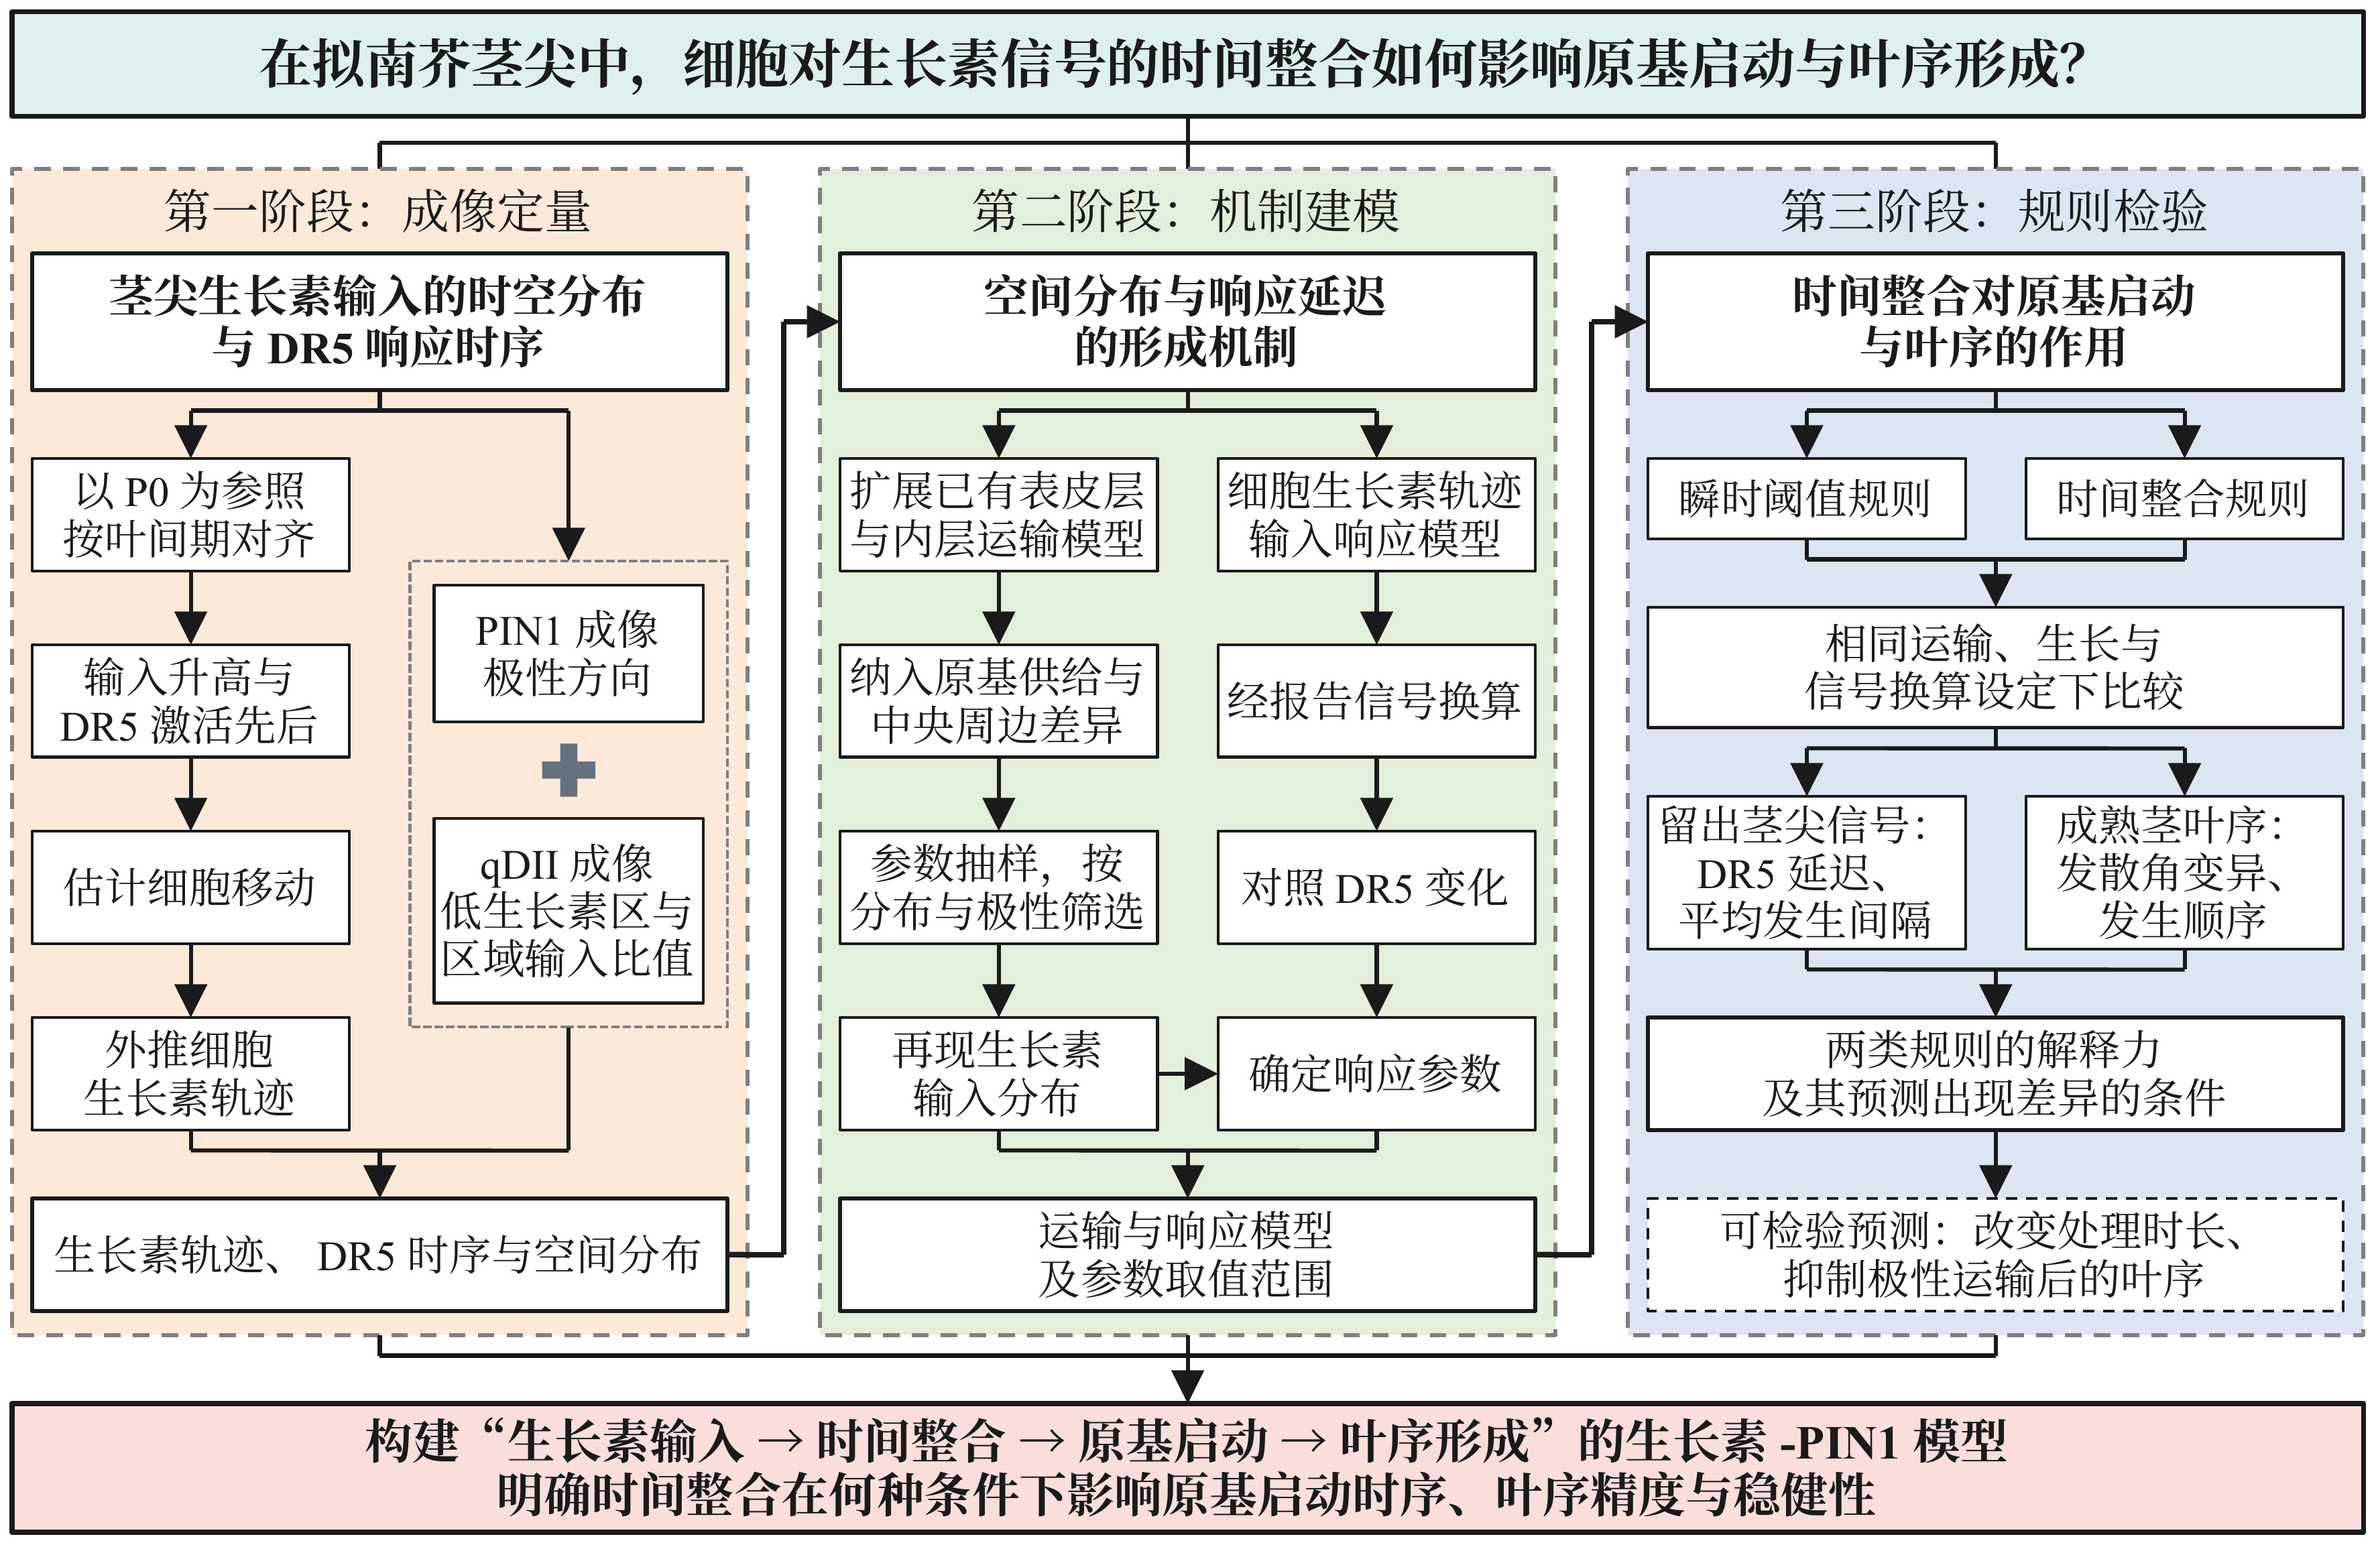
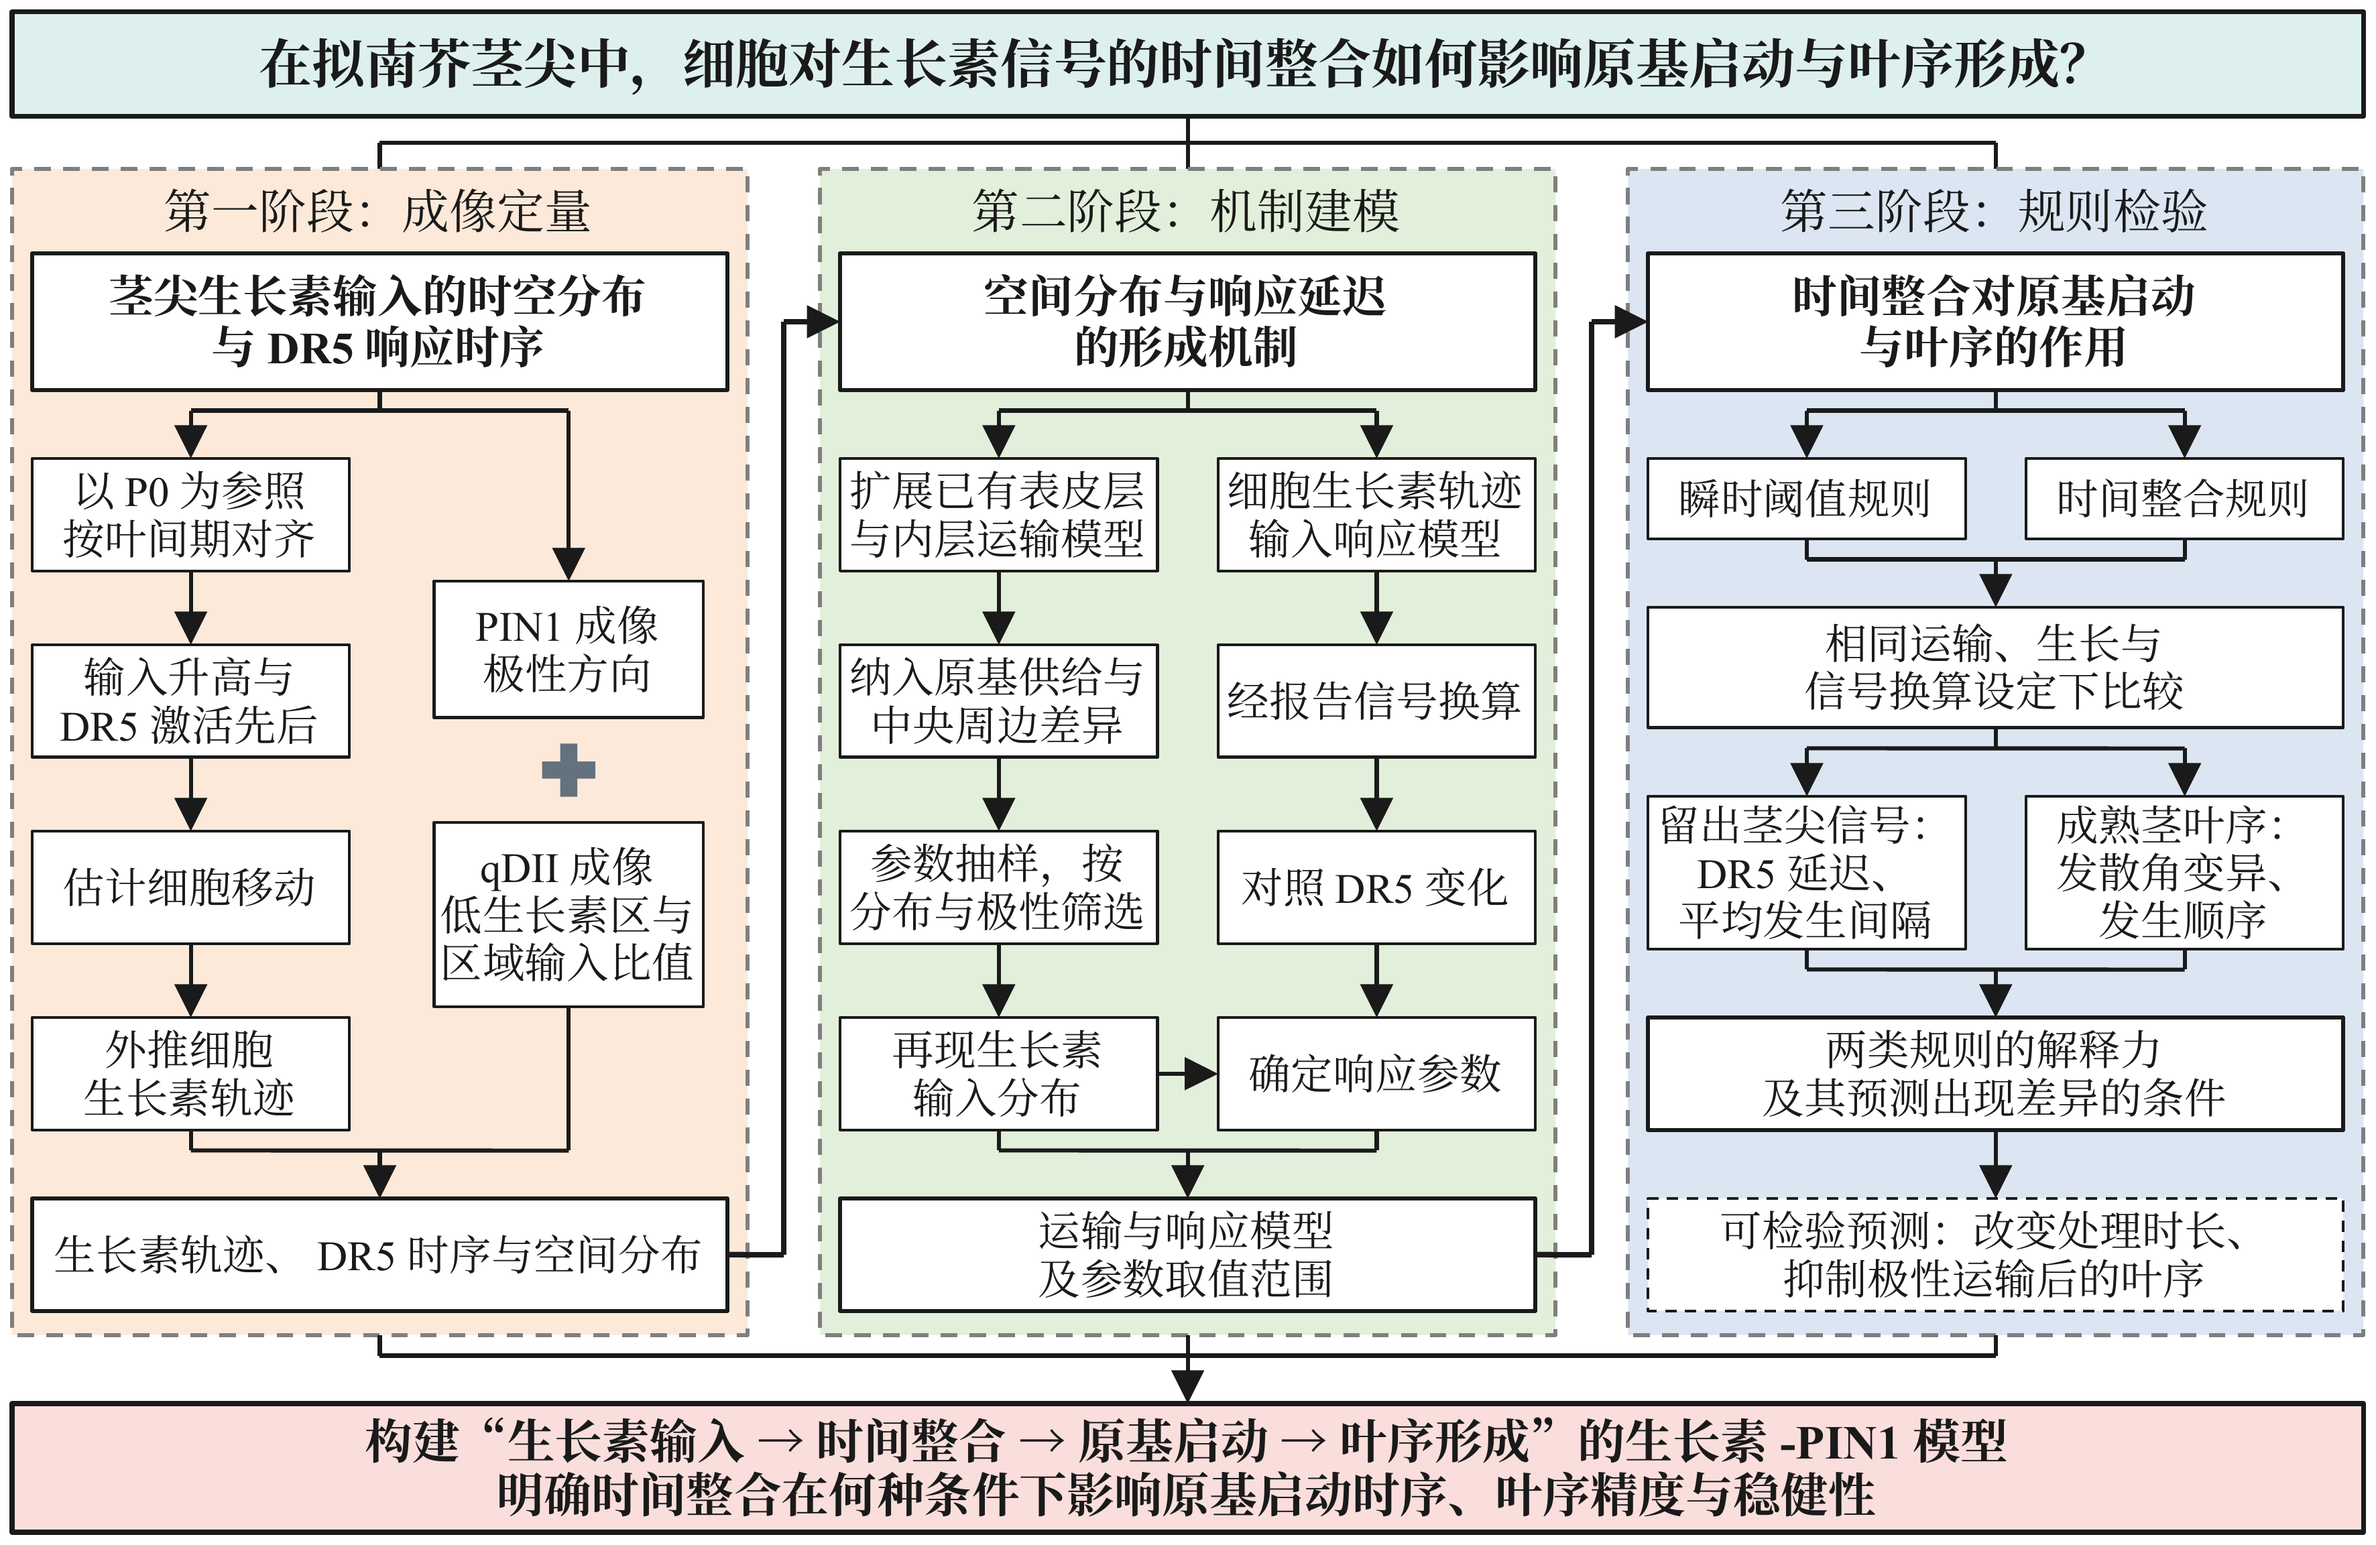
Fig. 2-1: drop the dashed group around the imaging boxes
The plus alone marks PIN1 and qDII imaging as parallel; the only small
dashed box left is the testable-predictions box.

Claude-Session: https://claude.ai/code/session_01BHCDdTyVHVBXyaT1pkArZu

Changed region(s): [[0.1862, 0.531, 0.3104, 0.656], [0.1862, 0.3436, 0.3104, 0.4685]]

diff --git a/figures/prior_work/ppt/roadmap.js b/figures/prior_work/ppt/roadmap.js
@@ -72,18 +72,17 @@ function frame(k, label, problem) {
 const ty = IN + HH + TG;                            // first row of track boxes (stages 1, 2)
 const AG = (OY - TG - ty - 4 * BH) / 3;             // arrow gap in a four-step track
 
-// stage 1: time course (left), two parallel imaging measurements grouped without arrows (right)
+// stage 1: time course (left), two parallel imaging measurements joined by a plus (right)
 {
   const f = frame(0, "第一阶段：成像定量", "茎尖生长素输入的时空分布\n与DR5响应时序");
   const b = chain(f.tx[0], ty, f.tw, ["以P0为参照\n按叶间期对齐", "输入升高与\nDR5激活先后", "估计细胞移动", "外推细胞\n生长素轨迹"], BH, AG);
-  const gx = f.tx[1], P1 = 0.34, P2 = 0.46, PG = 0.24, GP = 0.06, gh = GP + P1 + PG + P2 + GP;
-  const gy = ty + (b - ty - gh) / 2;                // two parallel measurements, grouped, joined by a plus
+  const gx = f.tx[1] + 0.06, gw = f.tw - 0.12, P1 = 0.34, P2 = 0.46, PG = 0.26, gh = P1 + PG + P2;
+  const gy = ty + (b - ty - gh) / 2;                // two parallel measurements joined by a plus, centred in the column
   split(f.cx, IN + HH, f.mids, [ty, gy], true);
-  box(gx, gy, f.tw, gh, "", { fill: null, lc: FRAME, dash: "sysDash", name: "imaging_group" });
-  box(gx + GP, gy + GP, f.tw - 2 * GP, P1, "PIN1成像\n极性方向");
-  s.addShape(pres.ShapeType.mathPlus, { x: gx + f.tw / 2 - 0.09, y: gy + GP + P1 + PG / 2 - 0.09, w: 0.18, h: 0.18,
+  box(gx, gy, gw, P1, "PIN1成像\n极性方向");
+  s.addShape(pres.ShapeType.mathPlus, { x: gx + gw / 2 - 0.09, y: gy + P1 + PG / 2 - 0.09, w: 0.18, h: 0.18,
     fill: { color: PLUS }, line: { type: "none" }, objectName: "parallel_plus" });
-  box(gx + GP, gy + GP + P1 + PG, f.tw - 2 * GP, P2, "qDII成像\n低生长素区与\n区域输入比值");
+  box(gx, gy + P1 + PG, gw, P2, "qDII成像\n低生长素区与\n区域输入比值");
   merge(f.mids, [b, gy + gh], f.cx, OY);
   box(f.hx, OY, f.hw, RH, "生长素轨迹、DR5时序与空间分布", { lw: 0.75, name: "result_0" });
 }
